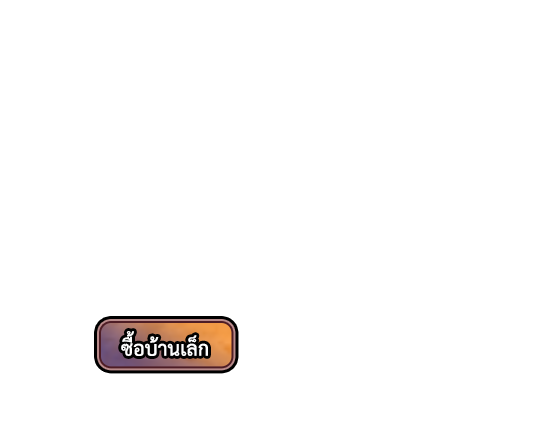
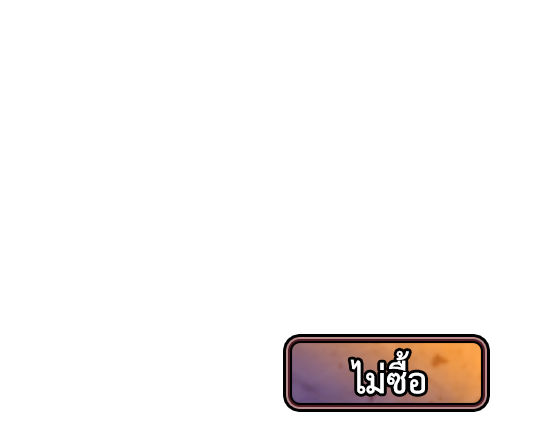
fix position place

Changed region(s): [[0.4991, 0.7188, 0.9046, 0.9375], [0.156, 0.6875, 0.4367, 0.8438]]

diff --git a/src/MillionaireLadgabang/src/ml/MillionaireLadgabang.java b/src/MillionaireLadgabang/src/ml/MillionaireLadgabang.java
@@ -55,6 +55,9 @@ import ml.dice.DiceList;
 import ml.place.PlaceList;
 import ml.player.PlayerList;
 import ml.Util;
+import ml.card.Card;
+import ml.card.MovePos;
+import ml.card.SetPos;
 
 public class MillionaireLadgabang extends Application {
 
@@ -156,29 +159,8 @@ public class MillionaireLadgabang extends Application {
     int posX[] = new int[2];
     int posY[] = new int[2];
 
-    int getPosX(int i) {
-        switch (i) {
-            case 0:
-                return 100;
-            case 1:
-                return 200;
-            default:
-                return 0;
-        }
-    }
-
-    int getPosY(int i) {
-        switch (i) {
-            case 0:
-                return 100;
-            case 1:
-                return 200;
-            default:
-                return 0;
-        }
-    }
-
     int indexImg[][] = {{0, 1}, {1, 2}, {2, 4}, {3, 5}, {4, 6}, {5, 8}, {6, 9}, {7, 10}, {8, 12}, {9, 13}, {10, 15}, {11, 16}, {12, 17}, {13, 18}, {14, 19}, {15, 20}, {16, 22}, {17, 23}, {18,}, {19, 26}, {20, 27}};
+    int posImg[][] = {{568, 605}, {475, 550}, {393, 497}, {313, 446}, {229, 391}, {147, 338}, {65, 285},{13,257},{97,214},{182,184},{263,146},{344,108},{415,70},{493,37},{570,5},{640,45},{715,85},{790,127},{867,170},{947,213},{1027,256},{1110,305},{1040,347},{965,386},{890,433},{805,475},{732,520},{643,557}};
 
     int coventIndexToPos(int s) {
         for (int i = 0; i < 21; ++i) {
@@ -233,9 +215,16 @@ public class MillionaireLadgabang extends Application {
         Util.imgSetPos(money, 20, 35, 150, 250);
         Util.imgSetPos(money1, 980, 505, 150, 250);
         Util.imgSetPos(bottomDice, 570, 340, 150, 150);
+        Util.imgSetPos(askTake, 570, 300, 200, 200);
+        Util.imgSetPos(imgBuy, 570, 300, 200, 200);
+        Util.imgSetPos(notBuy, 570, 300, 200, 200);
         root.getChildren().addAll(bg_game, chareter[0], chareter[1], status, status1, money, money1, bottomDice);
 
         Label lblStatus = new Label("X's turn to play");
+
+        ImageView gg = new ImageView("img/place/" + 1 + "/red/a" + 1 + ".png");
+        root.getChildren().add(gg);
+        Util.imgSetPos(gg, 65, 285, 0, 0);
 
         bottomDice.setOnMouseClicked((event) -> {
             try {
@@ -264,6 +253,10 @@ public class MillionaireLadgabang extends Application {
                         player.getPlayer(turn).setLose();
                     }
 
+                    if (place.getPlace(pos).canTakeOver(player.getPlayer(turn))) {
+                        root.getChildren().addAll(askTake, imgBuy, notBuy);
+                    }
+
                     // สร้างได้ ไม่มีเจ้าของ
                 } else if (place.getPlace(pos).canBuild() && place.getPlace(pos).haveNotOwner()) {
                     if (place.getPlace(pos).isNotMaxLevel()) {
@@ -280,10 +273,99 @@ public class MillionaireLadgabang extends Application {
                     // จุดพิเศษ
                 } else {
                     switch (pos) {
-
+                        // นับช่อง start เป็น 0 จนถึงช่องที่ 27 เป็นช่องสุดท้าย
+                        case 0:
+                            break;
+                        case 3:
+                            /*System.out.println("มินิเกมส์");
+                        System.out.println("คุณเลือก 0)scissor 1)rock 2)paper 3)ไม่เลือก");
+                        int select = sn.nextInt();
+                        **
+                         * อันนี้ ตามที่คุยไว่ ว่ามันจะล็อครอบที่ชนะเลยยย
+                         *
+                         *
+                        System.out.println("จำนวนรอบที่ล็อคให้ชนะ" + paoyingshub.getRandomRound());
+                        while (paoyingshub.play(player.getPlayer(turn), select)) {
+                            // อันนี้ผู้ใช้ออกอะไร ก็ให้ใส่ภาพตามที่ผู้ใช้เลือก
+                            System.out.println("Dice Chalenge game : You win");
+                        }
+                        paoyingshub.reSet();*/
+                            break;
+                        case 7:
+                            System.out.println("สำนักทะเบียน");
+                            /**
+                             * อันนี้ให้ทำไรอะ รอ 2 ตา หรือรับตัง
+                             *
+                             * if
+                             * (place.getPlace(pos).canPayToll(player.getPlayer(turn)))
+                             * { System.out.println("\t จ่ายค่าทะเบียนเรียน
+                             * เรียบร้อยย");
+                             * place.getPlace(pos).payToll(player.getPlayer(turn));
+                             * } else {
+                             * System.out.println("\tไม่มีตังจ่ายยค่าทะเบียนเรียน
+                             * ล้มละลายยยยย"); player.getPlayer(turn).setLose();
+                             * // อย่าลืม break เดี่ยวแม่งวิ่งมั่ว break; }
+                             */
+                            break;
+                        case 11:
+                            System.out.println("การ์ด");
+                            break;
+                        case 14:
+                            System.out.println("วัดปลูก");
+                            /**
+                             * เลือกบ้านคูณ 2
+                             */
+                            break;
+                        case 21:
+                            System.out.println("วินเกกี");
+                            // ให้ผู้ใช้เลือกที่ต้องการจะไป
+                            /*int select_pos = sn.nextInt();
+                            player.getPlayer(turn).setPos(select_pos, player.getPlayer(turn));
+                            pos = player.getPlayer(turn).getPos();*/
+                            break;
+                        case 25:
+                            /*System.out.println("การ์ด");
+                        Card rand_card = card.RandomCard();
+                        if (rand_card.isNow()) {
+                            // การ์นี้ใช้ทันที
+                            if (rand_card instanceof SetPos) {
+                                // การ์ด ย้ายไปตามที่กำหนดไว้
+                                ((SetPos) rand_card).effect(player.getPlayer(turn));
+                            }
+                            if (rand_card instanceof MovePos) {
+                                // การ์ด ย้ายไป x ช่องง
+                                ((MovePos) rand_card).effect(player.getPlayer(turn));
+                            }
+                        } else {
+                            // การ์ดนี้ต้องเก็บไว้ เพื่อใช้โอกาศหน้า
+                            player.getPlayer(turn).addCard(rand_card);
+                        }*/
+                            break;
                     }
                 }
 
+            } catch (Exception ex) {
+                Logger.getLogger(MillionaireLadgabang.class.getName()).log(Level.SEVERE, null, ex);
+            }
+        });
+
+        imgBuy.setOnMouseClicked((event) -> {
+            try {
+                int turn = player.getTurn();
+                int pos = player.getPlayer(turn).getPos();
+                int level = place.getPlace(pos).getLevel();
+                place.getPlace(pos).TakeOver(player.getPlayer(turn));
+                root.getChildren().removeAll(askTake, imgBuy, notBuy);
+                player.nextTurn();
+            } catch (Exception ex) {
+                Logger.getLogger(MillionaireLadgabang.class.getName()).log(Level.SEVERE, null, ex);
+            }
+        });
+
+        notBuy.setOnMouseClicked((event) -> {
+            try {
+                root.getChildren().removeAll(askTake, imgBuy, notBuy);
+                player.nextTurn();
             } catch (Exception ex) {
                 Logger.getLogger(MillionaireLadgabang.class.getName()).log(Level.SEVERE, null, ex);
             }
@@ -310,26 +392,40 @@ public class MillionaireLadgabang extends Application {
             try {
                 int turn = player.getTurn();
                 int pos = player.getPlayer(turn).getPos();
+                int tmpPos = coventPosToIndex(pos);
                 place.getPlace(pos).buyPlace(player.getPlayer(turn), 0);
 
                 int level = place.getPlace(pos).getLevel();
                 if (turn == 0) {
-                    place_red[level][pos] = new ImageView("img/place/" + (level + 1) + "/red/a" + (pos + 1) + ".png");
-                    Util.imgSetPos(place_red[level][pos], 500, 500, 150, 400);
-                    root.getChildren().add(place_red[level][pos]);
+                    if (place_red[level][tmpPos] == null) {
+                        try {
+                            place_red[level][tmpPos] = new ImageView("img/place/" + (level + 1) + "/red/a" + (tmpPos + 1) + ".png");
+                            Util.imgSetPos(place_red[level][tmpPos], posImg[pos][0], posImg[pos][1], 0, 0);
+                        } catch (Exception ex) {
+                            System.out.println("img/place/" + (level + 1) + "/red/a" + (tmpPos + 1) + ".png");
+                        }
+                    }
+
+                    root.getChildren().add(place_red[level][tmpPos]);
 
                 } else if (turn == 1) {
-                    place_blue[level][pos] = new ImageView("img/place/" + (level + 1) + "/blue/" + (pos + 1) + ".png");
-                    Util.imgSetPos(place_blue[level][pos], 500, 500, 150, 400);
-                    root.getChildren().add(place_blue[level][pos]);
+                    if (place_red[level][tmpPos] == null) {
+                        try {
+                            place_blue[level][tmpPos] = new ImageView("img/place/" + (level + 1) + "/blue/a" + (tmpPos + 1) + ".png");
+                            Util.imgSetPos(place_blue[level][tmpPos], posImg[pos][0], posImg[pos][1], 0, 0);
+                        } catch (Exception ex) {
+                            System.out.println("img/place/" + (level + 1) + "/red/a" + (tmpPos + 1) + ".png");
+                        }
+                    }
+                    root.getChildren().add(place_blue[level][tmpPos]);
                 }
 
                 root.getChildren().remove(buy[0]);
                 for (int i = level; i <= 4; ++i) {
                     root.getChildren().remove(buy[i]);
                 }
-                int tmp = coventPosToIndex(pos);
-                root.getChildren().remove(deed[tmp]);
+
+                root.getChildren().remove(deed[tmpPos]);
                 player.nextTurn();
             } catch (Exception ex) {
                 Logger.getLogger(MillionaireLadgabang.class.getName()).log(Level.SEVERE, null, ex);
@@ -340,26 +436,39 @@ public class MillionaireLadgabang extends Application {
             try {
                 int turn = player.getTurn();
                 int pos = player.getPlayer(turn).getPos();
+                int tmpPos = coventPosToIndex(pos);
                 place.getPlace(pos).buyPlace(player.getPlayer(turn), 1);
 
                 int level = place.getPlace(pos).getLevel();
                 if (turn == 0) {
-                    place_red[level][pos] = new ImageView("img/place/" + (level + 1) + "/red/a" + (pos + 1) + ".png");
-                    Util.imgSetPos(place_red[level][pos], 500, 500, 150, 400);
-                    root.getChildren().add(place_red[level][pos]);
+                    if (place_red[level][tmpPos] == null) {
+                        try {
+                            place_red[level][tmpPos] = new ImageView("img/place/" + (level + 1) + "/red/a" + (tmpPos + 1) + ".png");
+                            Util.imgSetPos(place_red[level][tmpPos], posImg[pos][0], posImg[pos][1], 0, 0);
+                        } catch (Exception ex) {
+                            System.out.println("img/place/" + (level + 1) + "/red/a" + (tmpPos + 1) + ".png");
+                        }
+                    }
+
+                    root.getChildren().add(place_red[level][tmpPos]);
 
                 } else if (turn == 1) {
-                    place_blue[level][pos] = new ImageView("img/place/" + (level + 1) + "/blue/" + (pos + 1) + ".png");
-                    Util.imgSetPos(place_blue[level][pos], 500, 500, 150, 400);
-                    root.getChildren().add(place_blue[level][pos]);
+                    if (place_red[level][tmpPos] == null) {
+                        try {
+                            place_blue[level][tmpPos] = new ImageView("img/place/" + (level + 1) + "/blue/a" + (tmpPos + 1) + ".png");
+                            Util.imgSetPos(place_blue[level][tmpPos], posImg[pos][0], posImg[pos][1], 0, 0);
+                        } catch (Exception ex) {
+                            System.out.println("img/place/" + (level + 1) + "/red/a" + (tmpPos + 1) + ".png");
+                        }
+                    }
+                    root.getChildren().add(place_blue[level][tmpPos]);
                 }
 
                 root.getChildren().remove(buy[0]);
                 for (int i = level; i <= 4; ++i) {
                     root.getChildren().remove(buy[i]);
                 }
-                int tmp = coventPosToIndex(pos);
-                root.getChildren().remove(deed[tmp]);
+                root.getChildren().remove(deed[tmpPos]);
                 player.nextTurn();
             } catch (Exception ex) {
                 Logger.getLogger(MillionaireLadgabang.class.getName()).log(Level.SEVERE, null, ex);
@@ -370,26 +479,40 @@ public class MillionaireLadgabang extends Application {
             try {
                 int turn = player.getTurn();
                 int pos = player.getPlayer(turn).getPos();
+                int tmpPos = coventPosToIndex(pos);
                 place.getPlace(pos).buyPlace(player.getPlayer(turn), 2);
 
                 int level = place.getPlace(pos).getLevel();
                 if (turn == 0) {
-                    place_red[level][pos] = new ImageView("img/place/" + (level + 1) + "/red/a" + (pos + 1) + ".png");
-                    Util.imgSetPos(place_red[level][pos], 500, 500, 150, 400);
-                    root.getChildren().add(place_red[level][pos]);
+                    if (place_red[level][tmpPos] == null) {
+                        try {
+                            place_red[level][tmpPos] = new ImageView("img/place/" + (level + 1) + "/red/a" + (tmpPos + 1) + ".png");
+                            Util.imgSetPos(place_red[level][tmpPos], posImg[pos][0], posImg[pos][1], 0, 0);
+                        } catch (Exception ex) {
+                            System.out.println("img/place/" + (level + 1) + "/red/a" + (tmpPos + 1) + ".png");
+                        }
+                    }
+
+                    root.getChildren().add(place_red[level][tmpPos]);
 
                 } else if (turn == 1) {
-                    place_blue[level][pos] = new ImageView("img/place/" + (level + 1) + "/blue/" + (pos + 1) + ".png");
-                    Util.imgSetPos(place_blue[level][pos], 500, 500, 150, 400);
-                    root.getChildren().add(place_blue[level][pos]);
+                    if (place_red[level][tmpPos] == null) {
+                        try {
+                            place_blue[level][tmpPos] = new ImageView("img/place/" + (level + 1) + "/blue/a" + (tmpPos + 1) + ".png");
+                            Util.imgSetPos(place_blue[level][tmpPos], posImg[pos][0], posImg[pos][1], 0, 0);
+                        } catch (Exception ex) {
+                            System.out.println("img/place/" + (level + 1) + "/red/a" + (tmpPos + 1) + ".png");
+                        }
+                    }
+                    root.getChildren().add(place_blue[level][tmpPos]);
                 }
 
                 root.getChildren().remove(buy[0]);
                 for (int i = level; i <= 4; ++i) {
                     root.getChildren().remove(buy[i]);
                 }
-                int tmp = coventPosToIndex(pos);
-                root.getChildren().remove(deed[tmp]);
+
+                root.getChildren().remove(deed[tmpPos]);
                 player.nextTurn();
             } catch (Exception ex) {
                 Logger.getLogger(MillionaireLadgabang.class.getName()).log(Level.SEVERE, null, ex);
@@ -400,40 +523,54 @@ public class MillionaireLadgabang extends Application {
             try {
                 int turn = player.getTurn();
                 int pos = player.getPlayer(turn).getPos();
+                int tmpPos = coventPosToIndex(pos);
                 place.getPlace(pos).buyPlace(player.getPlayer(turn), 3);
 
                 int level = place.getPlace(pos).getLevel();
                 if (turn == 0) {
-                    place_red[level][pos] = new ImageView("img/place/" + (level + 1) + "/red/a" + (pos + 1) + ".png");
-                    Util.imgSetPos(place_red[level][pos], 500, 500, 150, 400);
-                    root.getChildren().add(place_red[level][pos]);
+                    if (place_red[level][tmpPos] == null) {
+                        try {
+                            place_red[level][tmpPos] = new ImageView("img/place/" + (level + 1) + "/red/a" + (tmpPos + 1) + ".png");
+                            Util.imgSetPos(place_red[level][tmpPos], posImg[pos][0], posImg[pos][1], 0, 0);
+                        } catch (Exception ex) {
+                            System.out.println("img/place/" + (level + 1) + "/red/a" + (tmpPos + 1) + ".png");
+                        }
+                    }
+
+                    root.getChildren().add(place_red[level][tmpPos]);
 
                 } else if (turn == 1) {
-                    place_blue[level][pos] = new ImageView("img/place/" + (level + 1) + "/blue/" + (pos + 1) + ".png");
-                    Util.imgSetPos(place_blue[level][pos], 500, 500, 150, 400);
-                    root.getChildren().add(place_blue[level][pos]);
+                    if (place_red[level][tmpPos] == null) {
+                        try {
+                            place_blue[level][tmpPos] = new ImageView("img/place/" + (level + 1) + "/blue/a" + (tmpPos + 1) + ".png");
+                            Util.imgSetPos(place_blue[level][tmpPos], posImg[pos][0], posImg[pos][1], 0, 0);
+                        } catch (Exception ex) {
+                            System.out.println("img/place/" + (level + 1) + "/red/a" + (tmpPos + 1) + ".png");
+                        }
+                    }
+                    root.getChildren().add(place_blue[level][tmpPos]);
                 }
 
                 root.getChildren().remove(buy[0]);
                 for (int i = level; i <= 4; ++i) {
                     root.getChildren().remove(buy[i]);
                 }
-                int tmp = coventPosToIndex(pos);
-                root.getChildren().remove(deed[tmp]);
+
+                root.getChildren().remove(deed[tmpPos]);
                 player.nextTurn();
             } catch (Exception ex) {
                 Logger.getLogger(MillionaireLadgabang.class.getName()).log(Level.SEVERE, null, ex);
             }
         });
 
-        /*root.setOnMouseClicked(new EventHandler<MouseEvent>() {
+        root.setOnMouseClicked(new EventHandler<MouseEvent>() {
             @Override
             public void handle(MouseEvent event) {
 
                 System.out.println(event.getSceneX());
                 System.out.println(event.getSceneY());
             }
-        });*/
+        });
         return root;
     }
 
@@ -526,6 +663,7 @@ public class MillionaireLadgabang extends Application {
     ImageView money1 = new ImageView("img/bord/เงิน.png");
     ImageView bottomDice = new ImageView("img/bord/btn_1.png");
     ImageView bottomDiceHover = new ImageView("img/bord/btn_2.png");
+    ImageView imgLose = new ImageView("img/deed/lose.png");
 
     ImageView askTake = new ImageView("img/deed/ask_take.png");
     ImageView imgBuy = new ImageView("img/deed/buy.png");
